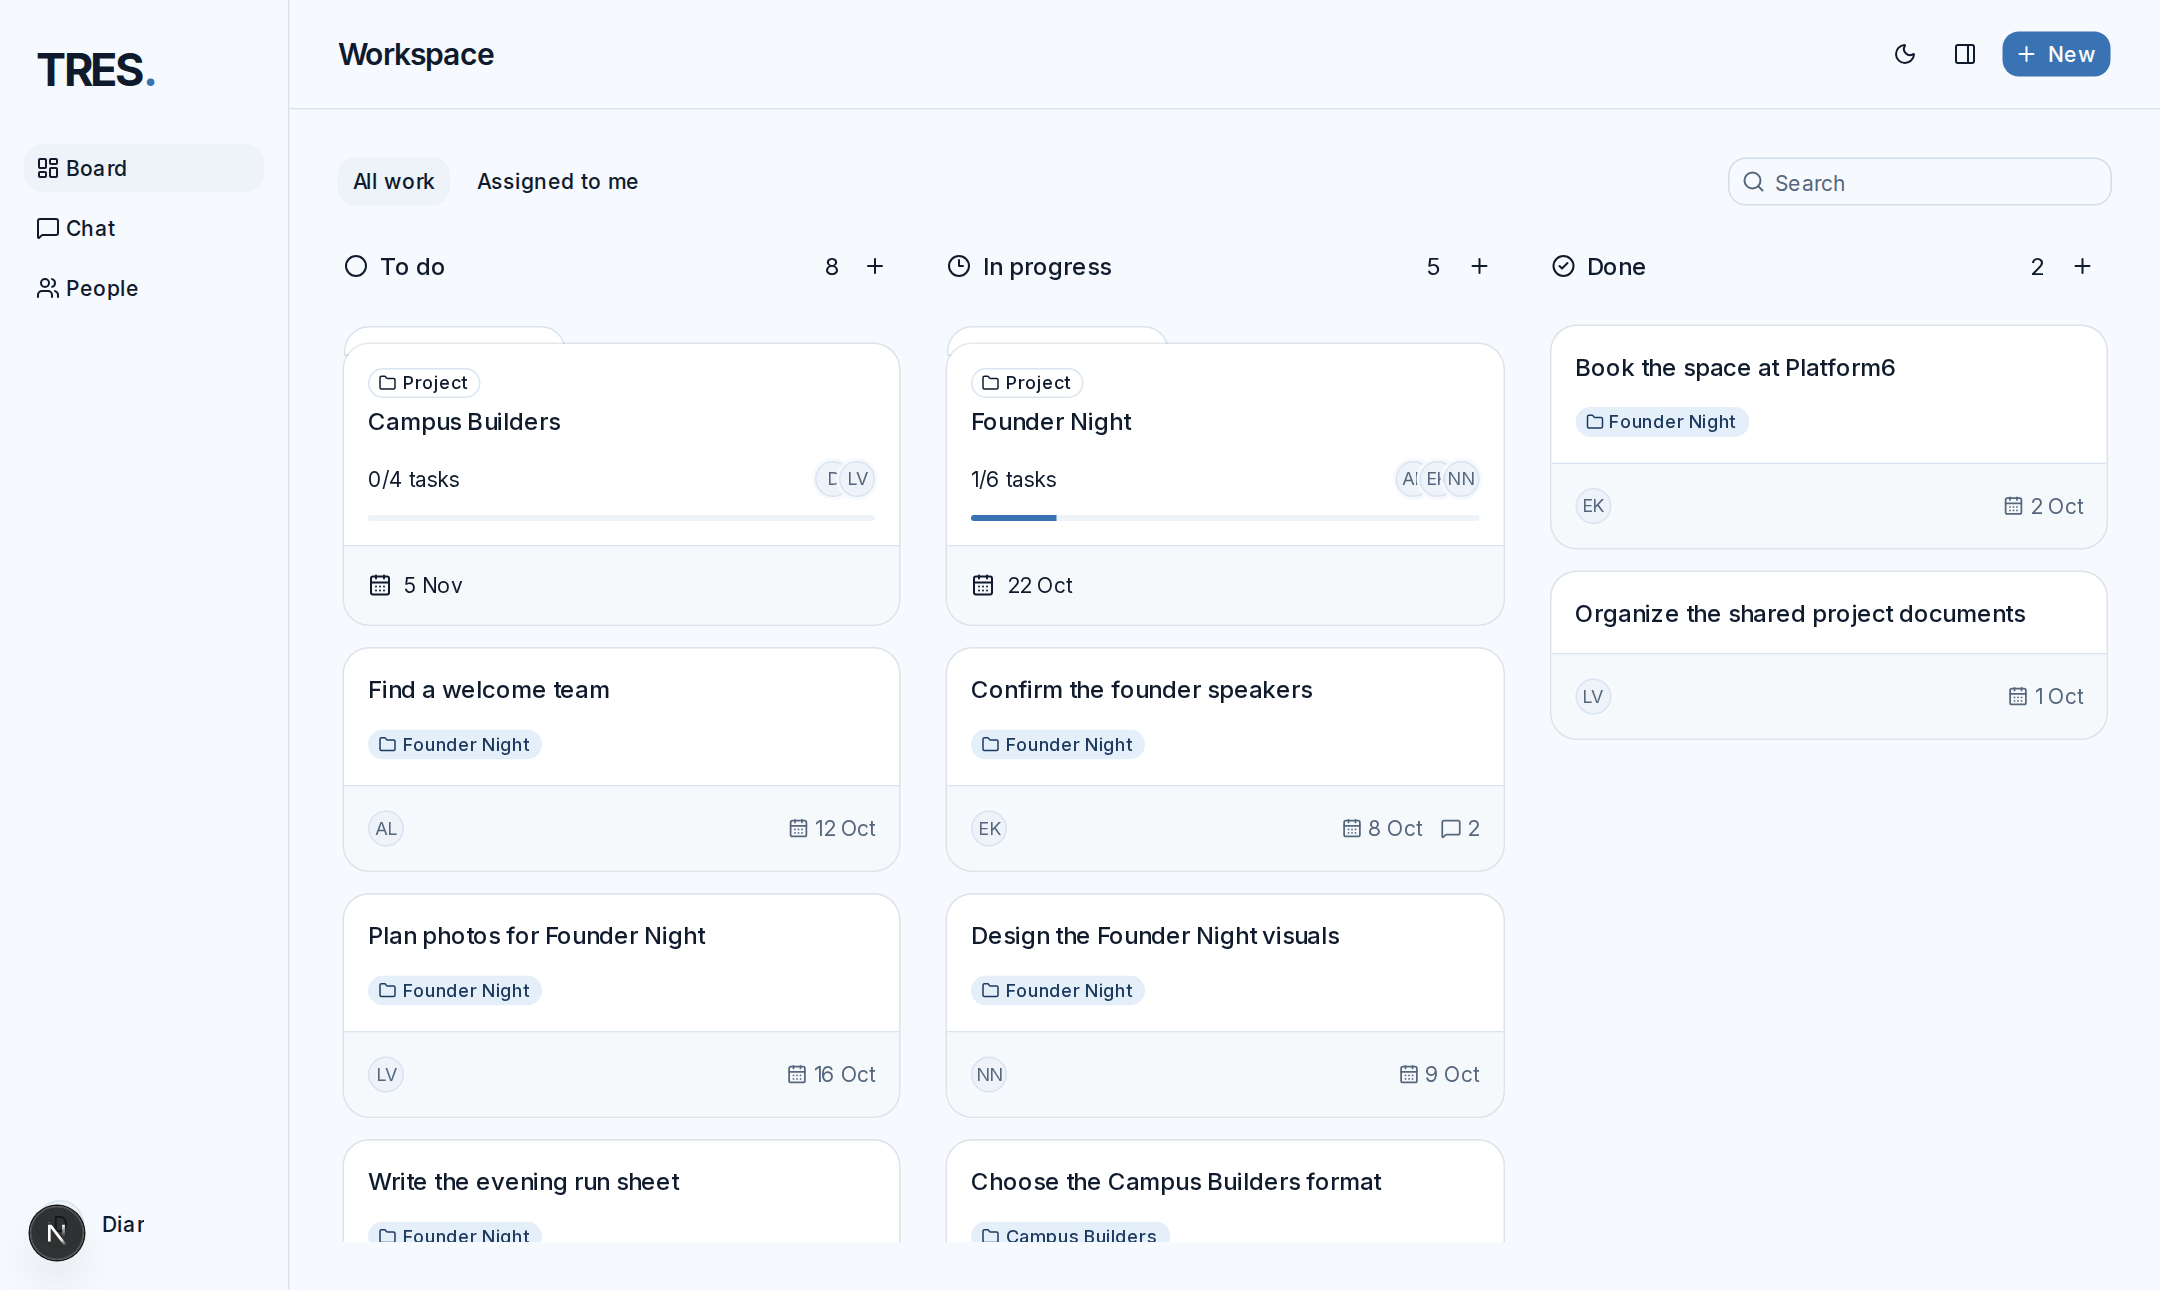
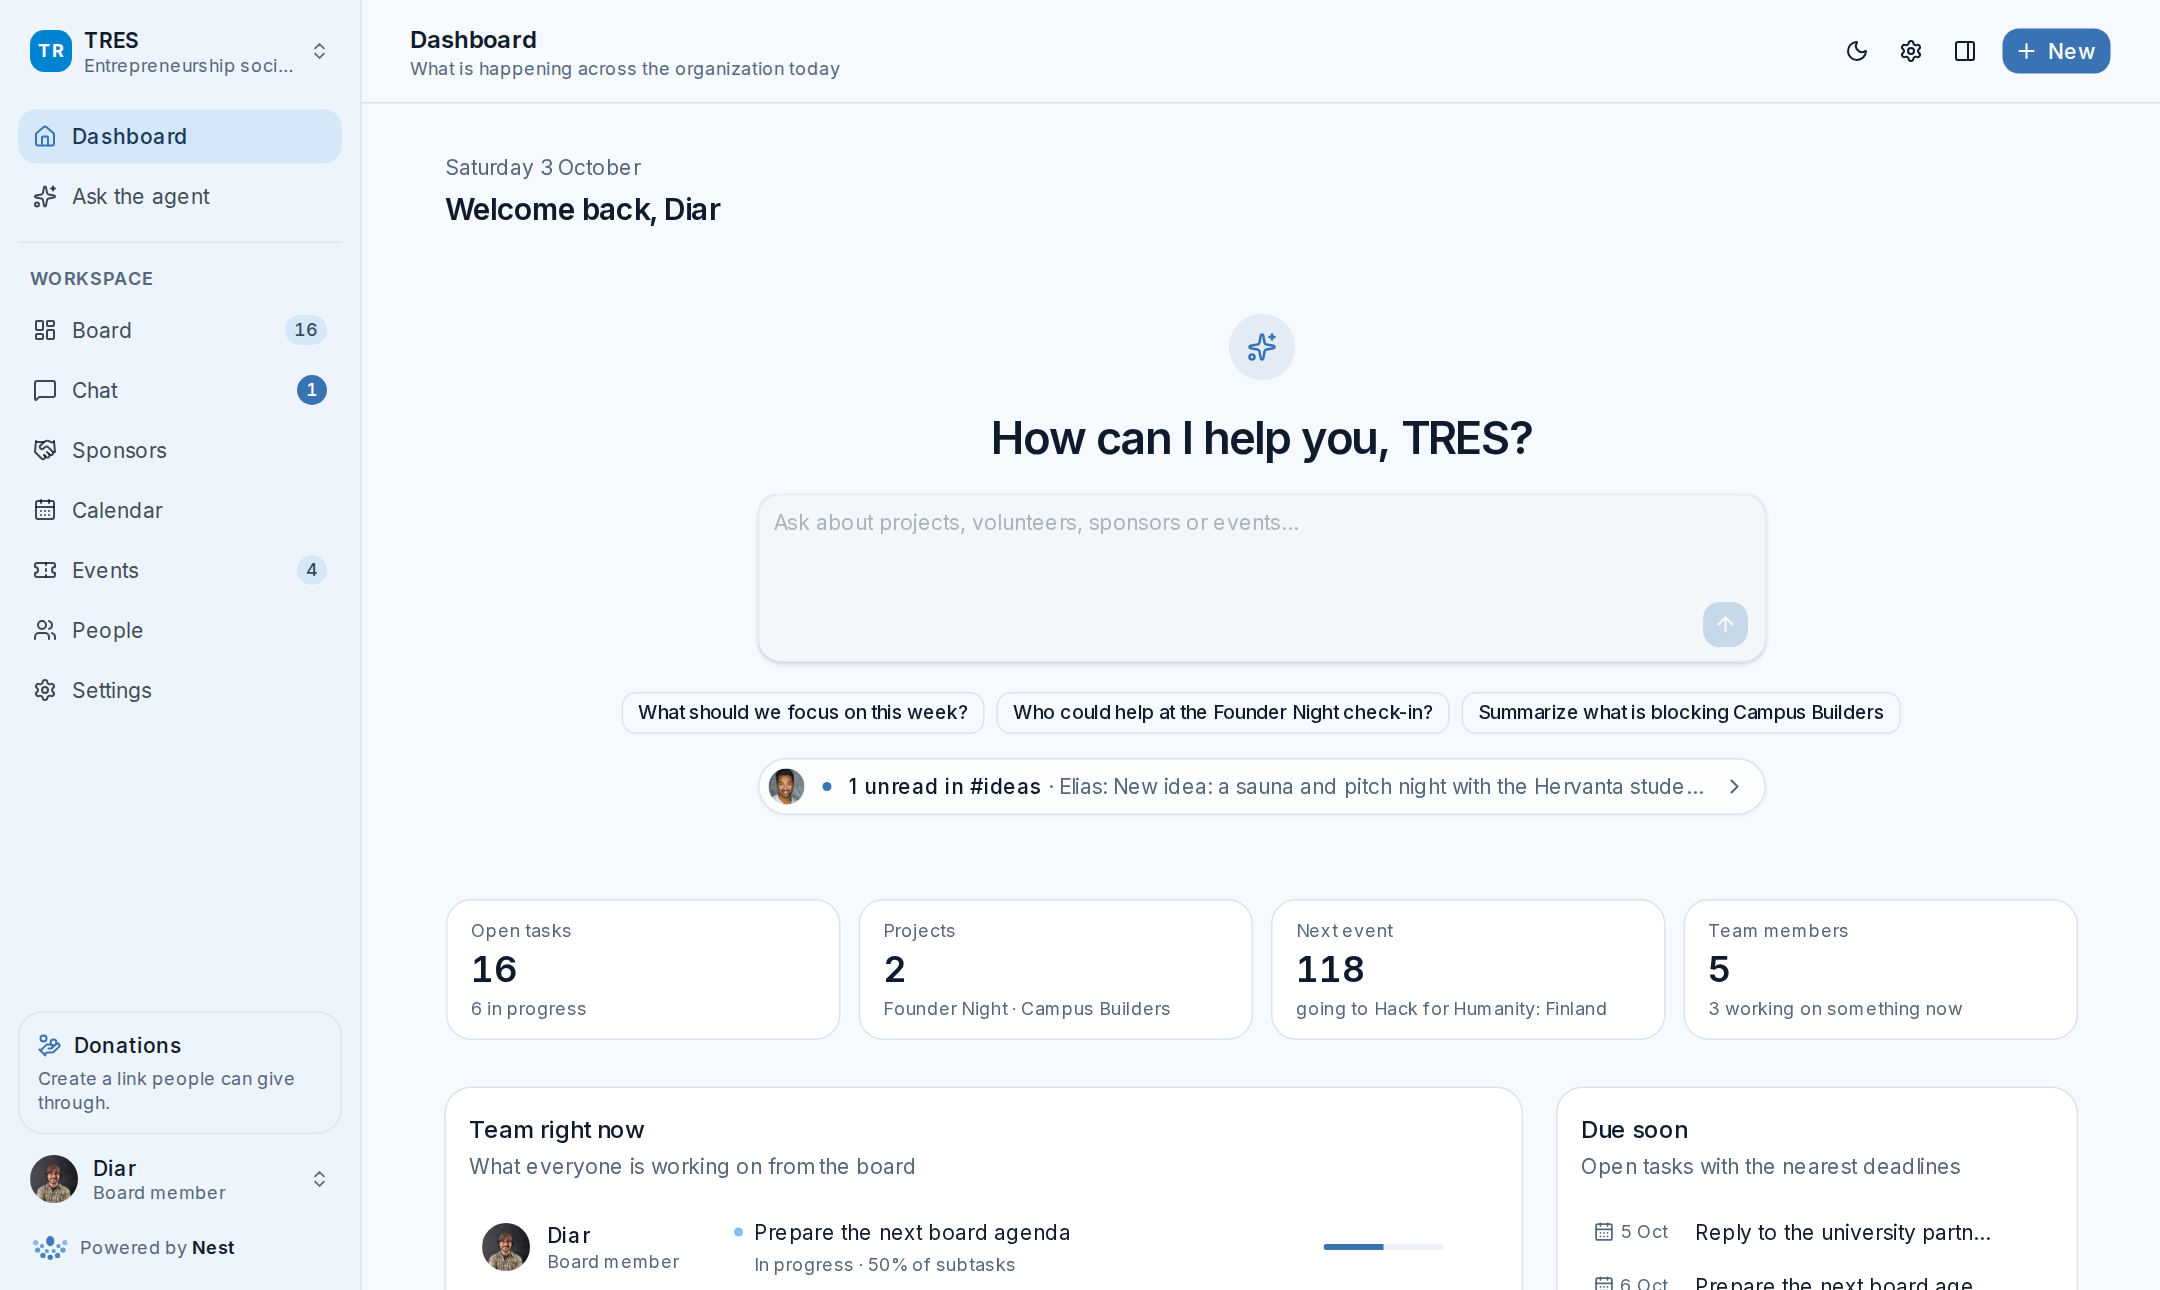
Simplify the dashboard prompt and refresh the landing screenshot
Drop the outlined panel and hint text around the dashboard AI prompt so
it stands on its own, and replace the landing hero image with a capture
of the current dashboard.

Claude-Session: https://claude.ai/code/session_015dFhAnESWsyp1pN1CffNvv

diff --git a/src/app/(workspace)/dashboard/_components/home-screen.tsx b/src/app/(workspace)/dashboard/_components/home-screen.tsx
@@ -124,9 +124,6 @@ function AskBox({
               aria-label="Message the agent"
             />
             <InputGroupAddon align="block-end">
-              <span className="text-xs text-muted-foreground">
-                Opens in Ask the agent with your workspace as context
-              </span>
               <InputGroupButton
                 type="submit"
                 variant="default"
@@ -300,7 +297,7 @@ export function HomeScreen({
         </h1>
       </div>
 
-      <div className="flex flex-col gap-4 rounded-3xl border bg-linear-to-b from-primary/5 to-transparent px-4 py-10 md:px-10">
+      <div className="flex flex-col gap-4 py-6">
         <AskBox organizationName={organizationName} onAsk={onAsk} />
         <UnreadNotice workspace={workspace} unread={unread} onOpenChannel={onOpenChannel} />
       </div>
